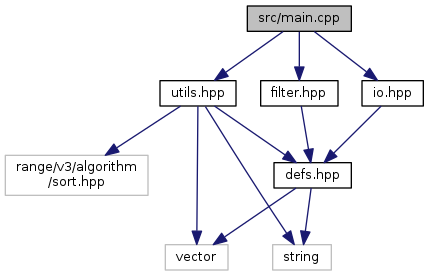
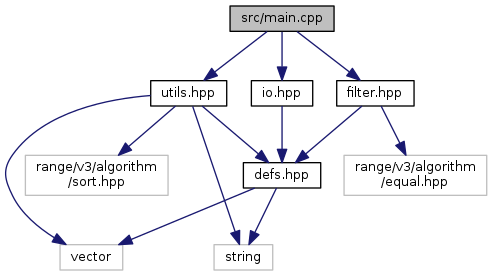
Deploy John-Jasper-Doe/Lab9 to github.com/John-Jasper-Doe/Lab9.git:gh-pages

diff --git a/filter_8hpp_source.html b/filter_8hpp_source.html
@@ -87,13 +87,11 @@ var searchBox = new SearchBox("searchBox", "search",false,'Search');
 <div class="title">filter.hpp</div>  </div>
 </div><!--header-->
 <div class="contents">
-<a href="filter_8hpp.html">Go to the documentation of this file.</a><div class="fragment"><div class="line"><a name="l00001"></a><span class="lineno">    1</span>&#160;</div><div class="line"><a name="l00010"></a><span class="lineno">   10</span>&#160;<span class="preprocessor">#ifndef FILTER_HPP_</span></div><div class="line"><a name="l00011"></a><span class="lineno">   11</span>&#160;<span class="preprocessor">#define FILTER_HPP_</span></div><div class="line"><a name="l00012"></a><span class="lineno">   12</span>&#160;</div><div class="line"><a name="l00013"></a><span class="lineno">   13</span>&#160;</div><div class="line"><a name="l00014"></a><span class="lineno">   14</span>&#160;<span class="preprocessor">#include &quot;<a class="code" href="defs_8hpp.html">defs.hpp</a>&quot;</span></div><div class="line"><a name="l00015"></a><span class="lineno">   15</span>&#160;</div><div class="line"><a name="l00016"></a><span class="lineno">   16</span>&#160;</div><div class="line"><a name="l00017"></a><span class="lineno">   17</span>&#160;<span class="comment">/* ------------------------------------------------------------------------- */</span></div><div class="line"><a name="l00024"></a><span class="lineno">   24</span>&#160;<span class="keywordtype">bool</span> <a class="code" href="filter_8hpp.html#afee0ac1c709dca8c9d101391fc50fcbb">helper_filter_any</a>(<span class="keyword">const</span> <a class="code" href="defs_8hpp.html#aeb46d39787a5fb589690276b2f0743f4">ipaddr_t</a> &amp;addr, uint32_t val);</div><div class="line"><a name="l00025"></a><span class="lineno">   25</span>&#160;</div><div class="line"><a name="l00032"></a><span class="lineno">   32</span>&#160;<span class="keywordtype">bool</span> <a class="code" href="filter_8hpp.html#a5664790c14b707e2c2feb6f9246c5185">helper_filter</a>(<span class="keyword">const</span> <a class="code" href="defs_8hpp.html#aeb46d39787a5fb589690276b2f0743f4">ipaddr_t</a> &amp;addr, <span class="keyword">const</span> <a class="code" href="defs_8hpp.html#aeb46d39787a5fb589690276b2f0743f4">ipaddr_t</a> &amp;tmp_addr);</div><div class="line"><a name="l00033"></a><span class="lineno">   33</span>&#160;</div><div class="line"><a name="l00040"></a><span class="lineno">   40</span>&#160;<a class="code" href="defs_8hpp.html#affc574f759e844bb7b11a0d01ceecc53">ip_pool_t</a> <a class="code" href="filter_8hpp.html#a6c34ea40f4a5b3087f47838761dd4512">filter_any</a>(<span class="keyword">const</span> <a class="code" href="defs_8hpp.html#affc574f759e844bb7b11a0d01ceecc53">ip_pool_t</a> &amp;pool, uint32_t val);</div><div class="line"><a name="l00041"></a><span class="lineno">   41</span>&#160;</div><div class="line"><a name="l00042"></a><span class="lineno">   42</span>&#160;</div><div class="line"><a name="l00043"></a><span class="lineno">   43</span>&#160;<span class="comment">/* ------------------------------------------------------------------------- */</span></div><div class="line"><a name="l00050"></a><span class="lineno">   50</span>&#160;<span class="keyword">template</span> &lt;<span class="keyword">typename</span>... Args&gt;</div><div class="line"><a name="l00051"></a><span class="lineno"><a class="line" href="filter_8hpp.html#a77f16b8de8a17e8eba9a7e213f1dddee">   51</a></span>&#160;<a class="code" href="defs_8hpp.html#affc574f759e844bb7b11a0d01ceecc53">ip_pool_t</a> <a class="code" href="filter_8hpp.html#a77f16b8de8a17e8eba9a7e213f1dddee">filter</a>(<span class="keyword">const</span> <a class="code" href="defs_8hpp.html#affc574f759e844bb7b11a0d01ceecc53">ip_pool_t</a> &amp;pool, Args... args)</div><div class="line"><a name="l00052"></a><span class="lineno">   52</span>&#160;{</div><div class="line"><a name="l00053"></a><span class="lineno">   53</span>&#160;  static_assert(<span class="keyword">sizeof</span>...(Args) &lt;= 4,</div><div class="line"><a name="l00054"></a><span class="lineno">   54</span>&#160;                <span class="stringliteral">&quot;filter gets 4 parameters max + ip_pool&quot;</span>);</div><div class="line"><a name="l00055"></a><span class="lineno">   55</span>&#160;</div><div class="line"><a name="l00056"></a><span class="lineno">   56</span>&#160;  <a class="code" href="defs_8hpp.html#affc574f759e844bb7b11a0d01ceecc53">ip_pool_t</a> result;</div><div class="line"><a name="l00057"></a><span class="lineno">   57</span>&#160;  <a class="code" href="defs_8hpp.html#aeb46d39787a5fb589690276b2f0743f4">ipaddr_t</a> tmp_array{args...};</div><div class="line"><a name="l00058"></a><span class="lineno">   58</span>&#160;</div><div class="line"><a name="l00059"></a><span class="lineno">   59</span>&#160;  <span class="keywordflow">for</span> (<span class="keyword">const</span> <a class="code" href="defs_8hpp.html#aeb46d39787a5fb589690276b2f0743f4">ipaddr_t</a> &amp;ip : pool) {</div><div class="line"><a name="l00060"></a><span class="lineno">   60</span>&#160;    <span class="keywordflow">if</span> (<a class="code" href="filter_8hpp.html#a5664790c14b707e2c2feb6f9246c5185">helper_filter</a>(ip, tmp_array))</div><div class="line"><a name="l00061"></a><span class="lineno">   61</span>&#160;      result.push_back(ip);</div><div class="line"><a name="l00062"></a><span class="lineno">   62</span>&#160;  }</div><div class="line"><a name="l00063"></a><span class="lineno">   63</span>&#160;  <span class="keywordflow">return</span> result;</div><div class="line"><a name="l00064"></a><span class="lineno">   64</span>&#160;}</div><div class="line"><a name="l00065"></a><span class="lineno">   65</span>&#160;</div><div class="line"><a name="l00066"></a><span class="lineno">   66</span>&#160;</div><div class="line"><a name="l00067"></a><span class="lineno">   67</span>&#160;<span class="preprocessor">#endif </span><span class="comment">/* FILTER_HPP_ */</span><span class="preprocessor"></span></div><div class="ttc" id="filter_8hpp_html_a77f16b8de8a17e8eba9a7e213f1dddee"><div class="ttname"><a href="filter_8hpp.html#a77f16b8de8a17e8eba9a7e213f1dddee">filter</a></div><div class="ttdeci">ip_pool_t filter(const ip_pool_t &amp;pool, Args...args)</div><div class="ttdoc">filter </div><div class="ttdef"><b>Definition:</b> filter.hpp:51</div></div>
+<a href="filter_8hpp.html">Go to the documentation of this file.</a><div class="fragment"><div class="line"><a name="l00001"></a><span class="lineno">    1</span>&#160;</div><div class="line"><a name="l00010"></a><span class="lineno">   10</span>&#160;<span class="preprocessor">#ifndef FILTER_HPP_</span></div><div class="line"><a name="l00011"></a><span class="lineno">   11</span>&#160;<span class="preprocessor">#define FILTER_HPP_</span></div><div class="line"><a name="l00012"></a><span class="lineno">   12</span>&#160;</div><div class="line"><a name="l00013"></a><span class="lineno">   13</span>&#160;</div><div class="line"><a name="l00014"></a><span class="lineno">   14</span>&#160;<span class="preprocessor">#include &quot;<a class="code" href="defs_8hpp.html">defs.hpp</a>&quot;</span></div><div class="line"><a name="l00015"></a><span class="lineno">   15</span>&#160;<span class="preprocessor">#include &lt;range/v3/algorithm/equal.hpp&gt;</span></div><div class="line"><a name="l00016"></a><span class="lineno">   16</span>&#160;</div><div class="line"><a name="l00017"></a><span class="lineno">   17</span>&#160;</div><div class="line"><a name="l00018"></a><span class="lineno">   18</span>&#160;<span class="comment">/* ------------------------------------------------------------------------- */</span></div><div class="line"><a name="l00025"></a><span class="lineno">   25</span>&#160;<a class="code" href="defs_8hpp.html#affc574f759e844bb7b11a0d01ceecc53">ip_pool_t</a> <a class="code" href="filter_8hpp.html#a6c34ea40f4a5b3087f47838761dd4512">filter_any</a>(<span class="keyword">const</span> <a class="code" href="defs_8hpp.html#affc574f759e844bb7b11a0d01ceecc53">ip_pool_t</a> &amp;pool, uint32_t val);</div><div class="line"><a name="l00026"></a><span class="lineno">   26</span>&#160;</div><div class="line"><a name="l00027"></a><span class="lineno">   27</span>&#160;</div><div class="line"><a name="l00028"></a><span class="lineno">   28</span>&#160;<span class="comment">/* ------------------------------------------------------------------------- */</span></div><div class="line"><a name="l00035"></a><span class="lineno">   35</span>&#160;<span class="keyword">template</span> &lt;<span class="keyword">typename</span>... Args&gt;</div><div class="line"><a name="l00036"></a><span class="lineno"><a class="line" href="filter_8hpp.html#a77f16b8de8a17e8eba9a7e213f1dddee">   36</a></span>&#160;<a class="code" href="defs_8hpp.html#affc574f759e844bb7b11a0d01ceecc53">ip_pool_t</a> <a class="code" href="filter_8hpp.html#a77f16b8de8a17e8eba9a7e213f1dddee">filter</a>(<span class="keyword">const</span> <a class="code" href="defs_8hpp.html#affc574f759e844bb7b11a0d01ceecc53">ip_pool_t</a> &amp;pool, Args... args)</div><div class="line"><a name="l00037"></a><span class="lineno">   37</span>&#160;{</div><div class="line"><a name="l00038"></a><span class="lineno">   38</span>&#160;  static_assert(<span class="keyword">sizeof</span>...(Args) &lt;= 4, <span class="stringliteral">&quot;filter gets 4 parameters max + ip_pool&quot;</span>);</div><div class="line"><a name="l00039"></a><span class="lineno">   39</span>&#160;</div><div class="line"><a name="l00040"></a><span class="lineno">   40</span>&#160;  <a class="code" href="defs_8hpp.html#affc574f759e844bb7b11a0d01ceecc53">ip_pool_t</a> result;</div><div class="line"><a name="l00041"></a><span class="lineno">   41</span>&#160;  <a class="code" href="defs_8hpp.html#aeb46d39787a5fb589690276b2f0743f4">ipaddr_t</a> tmp_array{args...};</div><div class="line"><a name="l00042"></a><span class="lineno">   42</span>&#160;</div><div class="line"><a name="l00043"></a><span class="lineno">   43</span>&#160;  <span class="keywordflow">for</span> (<span class="keyword">const</span> <a class="code" href="defs_8hpp.html#aeb46d39787a5fb589690276b2f0743f4">ipaddr_t</a> &amp;ip : pool) {</div><div class="line"><a name="l00044"></a><span class="lineno">   44</span>&#160;    <span class="keywordflow">if</span> (ranges::equal(tmp_array.begin(), tmp_array.end(), ip.begin()))</div><div class="line"><a name="l00045"></a><span class="lineno">   45</span>&#160;      result.push_back(ip);</div><div class="line"><a name="l00046"></a><span class="lineno">   46</span>&#160;  }</div><div class="line"><a name="l00047"></a><span class="lineno">   47</span>&#160;  <span class="keywordflow">return</span> result;</div><div class="line"><a name="l00048"></a><span class="lineno">   48</span>&#160;}</div><div class="line"><a name="l00049"></a><span class="lineno">   49</span>&#160;</div><div class="line"><a name="l00050"></a><span class="lineno">   50</span>&#160;</div><div class="line"><a name="l00051"></a><span class="lineno">   51</span>&#160;<span class="preprocessor">#endif </span><span class="comment">/* FILTER_HPP_ */</span><span class="preprocessor"></span></div><div class="ttc" id="filter_8hpp_html_a77f16b8de8a17e8eba9a7e213f1dddee"><div class="ttname"><a href="filter_8hpp.html#a77f16b8de8a17e8eba9a7e213f1dddee">filter</a></div><div class="ttdeci">ip_pool_t filter(const ip_pool_t &amp;pool, Args...args)</div><div class="ttdoc">filter </div><div class="ttdef"><b>Definition:</b> filter.hpp:36</div></div>
 <div class="ttc" id="defs_8hpp_html_aeb46d39787a5fb589690276b2f0743f4"><div class="ttname"><a href="defs_8hpp.html#aeb46d39787a5fb589690276b2f0743f4">ipaddr_t</a></div><div class="ttdeci">std::vector&lt; uint32_t &gt; ipaddr_t</div><div class="ttdef"><b>Definition:</b> defs.hpp:24</div></div>
-<div class="ttc" id="filter_8hpp_html_afee0ac1c709dca8c9d101391fc50fcbb"><div class="ttname"><a href="filter_8hpp.html#afee0ac1c709dca8c9d101391fc50fcbb">helper_filter_any</a></div><div class="ttdeci">bool helper_filter_any(const ipaddr_t &amp;addr, uint32_t val)</div><div class="ttdoc">helper_filter_any </div><div class="ttdef"><b>Definition:</b> filter.cpp:17</div></div>
 <div class="ttc" id="defs_8hpp_html"><div class="ttname"><a href="defs_8hpp.html">defs.hpp</a></div><div class="ttdoc">Definition on this project. </div></div>
 <div class="ttc" id="defs_8hpp_html_affc574f759e844bb7b11a0d01ceecc53"><div class="ttname"><a href="defs_8hpp.html#affc574f759e844bb7b11a0d01ceecc53">ip_pool_t</a></div><div class="ttdeci">std::vector&lt; ipaddr_t &gt; ip_pool_t</div><div class="ttdef"><b>Definition:</b> defs.hpp:27</div></div>
-<div class="ttc" id="filter_8hpp_html_a6c34ea40f4a5b3087f47838761dd4512"><div class="ttname"><a href="filter_8hpp.html#a6c34ea40f4a5b3087f47838761dd4512">filter_any</a></div><div class="ttdeci">ip_pool_t filter_any(const ip_pool_t &amp;pool, uint32_t val)</div><div class="ttdoc">filter_any </div><div class="ttdef"><b>Definition:</b> filter.cpp:39</div></div>
-<div class="ttc" id="filter_8hpp_html_a5664790c14b707e2c2feb6f9246c5185"><div class="ttname"><a href="filter_8hpp.html#a5664790c14b707e2c2feb6f9246c5185">helper_filter</a></div><div class="ttdeci">bool helper_filter(const ipaddr_t &amp;addr, const ipaddr_t &amp;tmp_addr)</div><div class="ttdoc">helper_filter </div><div class="ttdef"><b>Definition:</b> filter.cpp:23</div></div>
+<div class="ttc" id="filter_8hpp_html_a6c34ea40f4a5b3087f47838761dd4512"><div class="ttname"><a href="filter_8hpp.html#a6c34ea40f4a5b3087f47838761dd4512">filter_any</a></div><div class="ttdeci">ip_pool_t filter_any(const ip_pool_t &amp;pool, uint32_t val)</div><div class="ttdoc">filter_any </div><div class="ttdef"><b>Definition:</b> filter.cpp:18</div></div>
 </div><!-- fragment --></div><!-- contents -->
 <!-- start footer part -->
 <hr class="footer"/><address class="footer"><small>

diff --git a/filter_8cpp.html b/filter_8cpp.html
@@ -93,14 +93,15 @@ var searchBox = new SearchBox("searchBox", "search",false,'Search');
 <p>The filter function.  
 <a href="#details">More...</a></p>
 <div class="textblock"><code>#include &quot;<a class="el" href="filter_8hpp_source.html">filter.hpp</a>&quot;</code><br />
-<code>#include &lt;range/v3/algorithm/find.hpp&gt;</code><br />
+<code>#include &lt;range/v3/algorithm/for_each.hpp&gt;</code><br />
+<code>#include &lt;range/v3/view/filter.hpp&gt;</code><br />
 </div><div class="textblock"><div class="dynheader">
 Include dependency graph for filter.cpp:</div>
 <div class="dyncontent">
 <div class="center"><img src="filter_8cpp__incl.png" border="0" usemap="#src_2filter_8cpp" alt=""/></div>
 <map name="src_2filter_8cpp" id="src_2filter_8cpp">
-<area shape="rect" id="node2" href="filter_8hpp.html" title="The filter function. " alt="" coords="39,87,116,114"/>
-<area shape="rect" id="node3" href="defs_8hpp.html" title="Definition on this project. " alt="" coords="39,169,116,196"/>
+<area shape="rect" id="node2" href="filter_8hpp.html" title="The filter function. " alt="" coords="105,87,183,114"/>
+<area shape="rect" id="node3" href="defs_8hpp.html" title="Definition on this project. " alt="" coords="39,177,116,203"/>
 </map>
 </div>
 </div><table class="memberdecls">
@@ -109,12 +110,6 @@ Functions</h2></td></tr>
 <tr class="memitem:a6c34ea40f4a5b3087f47838761dd4512"><td class="memItemLeft" align="right" valign="top"><a class="el" href="defs_8hpp.html#affc574f759e844bb7b11a0d01ceecc53">ip_pool_t</a>&#160;</td><td class="memItemRight" valign="bottom"><a class="el" href="filter_8cpp.html#a6c34ea40f4a5b3087f47838761dd4512">filter_any</a> (const <a class="el" href="defs_8hpp.html#affc574f759e844bb7b11a0d01ceecc53">ip_pool_t</a> &amp;pool, uint32_t val)</td></tr>
 <tr class="memdesc:a6c34ea40f4a5b3087f47838761dd4512"><td class="mdescLeft">&#160;</td><td class="mdescRight">filter_any  <a href="#a6c34ea40f4a5b3087f47838761dd4512">More...</a><br /></td></tr>
 <tr class="separator:a6c34ea40f4a5b3087f47838761dd4512"><td class="memSeparator" colspan="2">&#160;</td></tr>
-<tr class="memitem:a5664790c14b707e2c2feb6f9246c5185"><td class="memItemLeft" align="right" valign="top">bool&#160;</td><td class="memItemRight" valign="bottom"><a class="el" href="filter_8cpp.html#a5664790c14b707e2c2feb6f9246c5185">helper_filter</a> (const <a class="el" href="defs_8hpp.html#aeb46d39787a5fb589690276b2f0743f4">ipaddr_t</a> &amp;addr, const <a class="el" href="defs_8hpp.html#aeb46d39787a5fb589690276b2f0743f4">ipaddr_t</a> &amp;tmp_addr)</td></tr>
-<tr class="memdesc:a5664790c14b707e2c2feb6f9246c5185"><td class="mdescLeft">&#160;</td><td class="mdescRight">helper_filter  <a href="#a5664790c14b707e2c2feb6f9246c5185">More...</a><br /></td></tr>
-<tr class="separator:a5664790c14b707e2c2feb6f9246c5185"><td class="memSeparator" colspan="2">&#160;</td></tr>
-<tr class="memitem:afee0ac1c709dca8c9d101391fc50fcbb"><td class="memItemLeft" align="right" valign="top">bool&#160;</td><td class="memItemRight" valign="bottom"><a class="el" href="filter_8cpp.html#afee0ac1c709dca8c9d101391fc50fcbb">helper_filter_any</a> (const <a class="el" href="defs_8hpp.html#aeb46d39787a5fb589690276b2f0743f4">ipaddr_t</a> &amp;addr, uint32_t val)</td></tr>
-<tr class="memdesc:afee0ac1c709dca8c9d101391fc50fcbb"><td class="mdescLeft">&#160;</td><td class="mdescRight">helper_filter_any  <a href="#afee0ac1c709dca8c9d101391fc50fcbb">More...</a><br /></td></tr>
-<tr class="separator:afee0ac1c709dca8c9d101391fc50fcbb"><td class="memSeparator" colspan="2">&#160;</td></tr>
 </table>
 <a name="details" id="details"></a><h2 class="groupheader">Detailed Description</h2>
 <div class="textblock"><p>The filter function. </p>
@@ -154,78 +149,6 @@ Functions</h2></td></tr>
   </dd>
 </dl>
 <dl class="section return"><dt>Returns</dt><dd>IP address equal to value. </dd></dl>
-
-</div>
-</div>
-<a class="anchor" id="a5664790c14b707e2c2feb6f9246c5185"></a>
-<div class="memitem">
-<div class="memproto">
-      <table class="memname">
-        <tr>
-          <td class="memname">bool helper_filter </td>
-          <td>(</td>
-          <td class="paramtype">const <a class="el" href="defs_8hpp.html#aeb46d39787a5fb589690276b2f0743f4">ipaddr_t</a> &amp;&#160;</td>
-          <td class="paramname"><em>addr</em>, </td>
-        </tr>
-        <tr>
-          <td class="paramkey"></td>
-          <td></td>
-          <td class="paramtype">const <a class="el" href="defs_8hpp.html#aeb46d39787a5fb589690276b2f0743f4">ipaddr_t</a> &amp;&#160;</td>
-          <td class="paramname"><em>tmp_addr</em>&#160;</td>
-        </tr>
-        <tr>
-          <td></td>
-          <td>)</td>
-          <td></td><td></td>
-        </tr>
-      </table>
-</div><div class="memdoc">
-
-<p>helper_filter </p>
-<dl class="params"><dt>Parameters</dt><dd>
-  <table class="params">
-    <tr><td class="paramname">addr[in]</td><td>- IP-address. </td></tr>
-    <tr><td class="paramname">tmp_addr[in]</td><td>- value for comparison. </td></tr>
-  </table>
-  </dd>
-</dl>
-<dl class="section return"><dt>Returns</dt><dd>"true" - if the address you are looking for is "false" - otherwise. </dd></dl>
-
-</div>
-</div>
-<a class="anchor" id="afee0ac1c709dca8c9d101391fc50fcbb"></a>
-<div class="memitem">
-<div class="memproto">
-      <table class="memname">
-        <tr>
-          <td class="memname">bool helper_filter_any </td>
-          <td>(</td>
-          <td class="paramtype">const <a class="el" href="defs_8hpp.html#aeb46d39787a5fb589690276b2f0743f4">ipaddr_t</a> &amp;&#160;</td>
-          <td class="paramname"><em>addr</em>, </td>
-        </tr>
-        <tr>
-          <td class="paramkey"></td>
-          <td></td>
-          <td class="paramtype">uint32_t&#160;</td>
-          <td class="paramname"><em>val</em>&#160;</td>
-        </tr>
-        <tr>
-          <td></td>
-          <td>)</td>
-          <td></td><td></td>
-        </tr>
-      </table>
-</div><div class="memdoc">
-
-<p>helper_filter_any </p>
-<dl class="params"><dt>Parameters</dt><dd>
-  <table class="params">
-    <tr><td class="paramname">addr[in]</td><td>- IP-address. </td></tr>
-    <tr><td class="paramname">val[in]</td><td>- value for comparison. </td></tr>
-  </table>
-  </dd>
-</dl>
-<dl class="section return"><dt>Returns</dt><dd>"true" - if the address you are looking for is "false" - otherwise. </dd></dl>
 
 </div>
 </div>

diff --git a/filter_8hpp.html b/filter_8hpp.html
@@ -93,12 +93,13 @@ var searchBox = new SearchBox("searchBox", "search",false,'Search');
 <p>The filter function.  
 <a href="#details">More...</a></p>
 <div class="textblock"><code>#include &quot;<a class="el" href="defs_8hpp_source.html">defs.hpp</a>&quot;</code><br />
+<code>#include &lt;range/v3/algorithm/equal.hpp&gt;</code><br />
 </div><div class="textblock"><div class="dynheader">
 Include dependency graph for filter.hpp:</div>
 <div class="dyncontent">
 <div class="center"><img src="filter_8hpp__incl.png" border="0" usemap="#src_2filter_8hpp" alt=""/></div>
 <map name="src_2filter_8hpp" id="src_2filter_8hpp">
-<area shape="rect" id="node2" href="defs_8hpp.html" title="Definition on this project. " alt="" coords="39,80,116,107"/>
+<area shape="rect" id="node2" href="defs_8hpp.html" title="Definition on this project. " alt="" coords="39,87,116,114"/>
 </map>
 </div>
 </div><div class="textblock"><div class="dynheader">
@@ -122,12 +123,6 @@ Functions</h2></td></tr>
 <tr class="memitem:a6c34ea40f4a5b3087f47838761dd4512"><td class="memItemLeft" align="right" valign="top"><a class="el" href="defs_8hpp.html#affc574f759e844bb7b11a0d01ceecc53">ip_pool_t</a>&#160;</td><td class="memItemRight" valign="bottom"><a class="el" href="filter_8hpp.html#a6c34ea40f4a5b3087f47838761dd4512">filter_any</a> (const <a class="el" href="defs_8hpp.html#affc574f759e844bb7b11a0d01ceecc53">ip_pool_t</a> &amp;pool, uint32_t val)</td></tr>
 <tr class="memdesc:a6c34ea40f4a5b3087f47838761dd4512"><td class="mdescLeft">&#160;</td><td class="mdescRight">filter_any  <a href="#a6c34ea40f4a5b3087f47838761dd4512">More...</a><br /></td></tr>
 <tr class="separator:a6c34ea40f4a5b3087f47838761dd4512"><td class="memSeparator" colspan="2">&#160;</td></tr>
-<tr class="memitem:a5664790c14b707e2c2feb6f9246c5185"><td class="memItemLeft" align="right" valign="top">bool&#160;</td><td class="memItemRight" valign="bottom"><a class="el" href="filter_8hpp.html#a5664790c14b707e2c2feb6f9246c5185">helper_filter</a> (const <a class="el" href="defs_8hpp.html#aeb46d39787a5fb589690276b2f0743f4">ipaddr_t</a> &amp;addr, const <a class="el" href="defs_8hpp.html#aeb46d39787a5fb589690276b2f0743f4">ipaddr_t</a> &amp;tmp_addr)</td></tr>
-<tr class="memdesc:a5664790c14b707e2c2feb6f9246c5185"><td class="mdescLeft">&#160;</td><td class="mdescRight">helper_filter  <a href="#a5664790c14b707e2c2feb6f9246c5185">More...</a><br /></td></tr>
-<tr class="separator:a5664790c14b707e2c2feb6f9246c5185"><td class="memSeparator" colspan="2">&#160;</td></tr>
-<tr class="memitem:afee0ac1c709dca8c9d101391fc50fcbb"><td class="memItemLeft" align="right" valign="top">bool&#160;</td><td class="memItemRight" valign="bottom"><a class="el" href="filter_8hpp.html#afee0ac1c709dca8c9d101391fc50fcbb">helper_filter_any</a> (const <a class="el" href="defs_8hpp.html#aeb46d39787a5fb589690276b2f0743f4">ipaddr_t</a> &amp;addr, uint32_t val)</td></tr>
-<tr class="memdesc:afee0ac1c709dca8c9d101391fc50fcbb"><td class="mdescLeft">&#160;</td><td class="mdescRight">helper_filter_any  <a href="#afee0ac1c709dca8c9d101391fc50fcbb">More...</a><br /></td></tr>
-<tr class="separator:afee0ac1c709dca8c9d101391fc50fcbb"><td class="memSeparator" colspan="2">&#160;</td></tr>
 </table>
 <a name="details" id="details"></a><h2 class="groupheader">Detailed Description</h2>
 <div class="textblock"><p>The filter function. </p>
@@ -205,78 +200,6 @@ template&lt;typename... Args&gt; </div>
   </dd>
 </dl>
 <dl class="section return"><dt>Returns</dt><dd>IP address equal to value. </dd></dl>
-
-</div>
-</div>
-<a class="anchor" id="a5664790c14b707e2c2feb6f9246c5185"></a>
-<div class="memitem">
-<div class="memproto">
-      <table class="memname">
-        <tr>
-          <td class="memname">bool helper_filter </td>
-          <td>(</td>
-          <td class="paramtype">const <a class="el" href="defs_8hpp.html#aeb46d39787a5fb589690276b2f0743f4">ipaddr_t</a> &amp;&#160;</td>
-          <td class="paramname"><em>addr</em>, </td>
-        </tr>
-        <tr>
-          <td class="paramkey"></td>
-          <td></td>
-          <td class="paramtype">const <a class="el" href="defs_8hpp.html#aeb46d39787a5fb589690276b2f0743f4">ipaddr_t</a> &amp;&#160;</td>
-          <td class="paramname"><em>tmp_addr</em>&#160;</td>
-        </tr>
-        <tr>
-          <td></td>
-          <td>)</td>
-          <td></td><td></td>
-        </tr>
-      </table>
-</div><div class="memdoc">
-
-<p>helper_filter </p>
-<dl class="params"><dt>Parameters</dt><dd>
-  <table class="params">
-    <tr><td class="paramname">addr[in]</td><td>- IP-address. </td></tr>
-    <tr><td class="paramname">tmp_addr[in]</td><td>- value for comparison. </td></tr>
-  </table>
-  </dd>
-</dl>
-<dl class="section return"><dt>Returns</dt><dd>"true" - if the address you are looking for is "false" - otherwise. </dd></dl>
-
-</div>
-</div>
-<a class="anchor" id="afee0ac1c709dca8c9d101391fc50fcbb"></a>
-<div class="memitem">
-<div class="memproto">
-      <table class="memname">
-        <tr>
-          <td class="memname">bool helper_filter_any </td>
-          <td>(</td>
-          <td class="paramtype">const <a class="el" href="defs_8hpp.html#aeb46d39787a5fb589690276b2f0743f4">ipaddr_t</a> &amp;&#160;</td>
-          <td class="paramname"><em>addr</em>, </td>
-        </tr>
-        <tr>
-          <td class="paramkey"></td>
-          <td></td>
-          <td class="paramtype">uint32_t&#160;</td>
-          <td class="paramname"><em>val</em>&#160;</td>
-        </tr>
-        <tr>
-          <td></td>
-          <td>)</td>
-          <td></td><td></td>
-        </tr>
-      </table>
-</div><div class="memdoc">
-
-<p>helper_filter_any </p>
-<dl class="params"><dt>Parameters</dt><dd>
-  <table class="params">
-    <tr><td class="paramname">addr[in]</td><td>- IP-address. </td></tr>
-    <tr><td class="paramname">val[in]</td><td>- value for comparison. </td></tr>
-  </table>
-  </dd>
-</dl>
-<dl class="section return"><dt>Returns</dt><dd>"true" - if the address you are looking for is "false" - otherwise. </dd></dl>
 
 </div>
 </div>

diff --git a/globals.html b/globals.html
@@ -91,20 +91,12 @@ var searchBox = new SearchBox("searchBox", "search",false,'Search');
 : <a class="el" href="filter_8hpp.html#a77f16b8de8a17e8eba9a7e213f1dddee">filter.hpp</a>
 </li>
 <li>filter_any()
-: <a class="el" href="filter_8cpp.html#a6c34ea40f4a5b3087f47838761dd4512">filter.cpp</a>
-, <a class="el" href="filter_8hpp.html#a6c34ea40f4a5b3087f47838761dd4512">filter.hpp</a>
+: <a class="el" href="filter_8hpp.html#a6c34ea40f4a5b3087f47838761dd4512">filter.hpp</a>
+, <a class="el" href="filter_8cpp.html#a6c34ea40f4a5b3087f47838761dd4512">filter.cpp</a>
 </li>
 <li>get_from_stream()
 : <a class="el" href="io_8cpp.html#aff065045bb5865a38194400ef0c61860">io.cpp</a>
 , <a class="el" href="io_8hpp.html#aff065045bb5865a38194400ef0c61860">io.hpp</a>
-</li>
-<li>helper_filter()
-: <a class="el" href="filter_8cpp.html#a5664790c14b707e2c2feb6f9246c5185">filter.cpp</a>
-, <a class="el" href="filter_8hpp.html#a5664790c14b707e2c2feb6f9246c5185">filter.hpp</a>
-</li>
-<li>helper_filter_any()
-: <a class="el" href="filter_8cpp.html#afee0ac1c709dca8c9d101391fc50fcbb">filter.cpp</a>
-, <a class="el" href="filter_8hpp.html#afee0ac1c709dca8c9d101391fc50fcbb">filter.hpp</a>
 </li>
 <li>ip_liststr_t
 : <a class="el" href="defs_8hpp.html#abb419b8077adb81fdf8c75e1cb781e14">defs.hpp</a>
@@ -113,8 +105,8 @@ var searchBox = new SearchBox("searchBox", "search",false,'Search');
 : <a class="el" href="defs_8hpp.html#affc574f759e844bb7b11a0d01ceecc53">defs.hpp</a>
 </li>
 <li>ip_print()
-: <a class="el" href="io_8cpp.html#af9c2a63075e9dcfbfe52fdc38cc6c10d">io.cpp</a>
-, <a class="el" href="io_8hpp.html#af9c2a63075e9dcfbfe52fdc38cc6c10d">io.hpp</a>
+: <a class="el" href="io_8hpp.html#af9c2a63075e9dcfbfe52fdc38cc6c10d">io.hpp</a>
+, <a class="el" href="io_8cpp.html#af9c2a63075e9dcfbfe52fdc38cc6c10d">io.cpp</a>
 </li>
 <li>ipaddr_str_t
 : <a class="el" href="defs_8hpp.html#aa917d08f572950bb321fc5ce3b323717">defs.hpp</a>
@@ -129,8 +121,8 @@ var searchBox = new SearchBox("searchBox", "search",false,'Search');
 : <a class="el" href="utils_8hpp.html#af7f242c1bee827eb9b994d9430641343">utils.hpp</a>
 </li>
 <li>split()
-: <a class="el" href="utils_8cpp.html#a76ccaab16daacd4d25f5b5b1e2827ec7">utils.cpp</a>
-, <a class="el" href="utils_8hpp.html#a76ccaab16daacd4d25f5b5b1e2827ec7">utils.hpp</a>
+: <a class="el" href="utils_8hpp.html#a76ccaab16daacd4d25f5b5b1e2827ec7">utils.hpp</a>
+, <a class="el" href="utils_8cpp.html#a76ccaab16daacd4d25f5b5b1e2827ec7">utils.cpp</a>
 </li>
 </ul>
 </div><!-- contents -->

diff --git a/globals_func.html b/globals_func.html
@@ -91,20 +91,12 @@ var searchBox = new SearchBox("searchBox", "search",false,'Search');
 : <a class="el" href="filter_8hpp.html#a77f16b8de8a17e8eba9a7e213f1dddee">filter.hpp</a>
 </li>
 <li>filter_any()
-: <a class="el" href="filter_8cpp.html#a6c34ea40f4a5b3087f47838761dd4512">filter.cpp</a>
-, <a class="el" href="filter_8hpp.html#a6c34ea40f4a5b3087f47838761dd4512">filter.hpp</a>
+: <a class="el" href="filter_8hpp.html#a6c34ea40f4a5b3087f47838761dd4512">filter.hpp</a>
+, <a class="el" href="filter_8cpp.html#a6c34ea40f4a5b3087f47838761dd4512">filter.cpp</a>
 </li>
 <li>get_from_stream()
 : <a class="el" href="io_8cpp.html#aff065045bb5865a38194400ef0c61860">io.cpp</a>
 , <a class="el" href="io_8hpp.html#aff065045bb5865a38194400ef0c61860">io.hpp</a>
-</li>
-<li>helper_filter()
-: <a class="el" href="filter_8cpp.html#a5664790c14b707e2c2feb6f9246c5185">filter.cpp</a>
-, <a class="el" href="filter_8hpp.html#a5664790c14b707e2c2feb6f9246c5185">filter.hpp</a>
-</li>
-<li>helper_filter_any()
-: <a class="el" href="filter_8cpp.html#afee0ac1c709dca8c9d101391fc50fcbb">filter.cpp</a>
-, <a class="el" href="filter_8hpp.html#afee0ac1c709dca8c9d101391fc50fcbb">filter.hpp</a>
 </li>
 <li>ip_print()
 : <a class="el" href="io_8cpp.html#af9c2a63075e9dcfbfe52fdc38cc6c10d">io.cpp</a>
@@ -117,8 +109,8 @@ var searchBox = new SearchBox("searchBox", "search",false,'Search');
 : <a class="el" href="utils_8hpp.html#af7f242c1bee827eb9b994d9430641343">utils.hpp</a>
 </li>
 <li>split()
-: <a class="el" href="utils_8cpp.html#a76ccaab16daacd4d25f5b5b1e2827ec7">utils.cpp</a>
-, <a class="el" href="utils_8hpp.html#a76ccaab16daacd4d25f5b5b1e2827ec7">utils.hpp</a>
+: <a class="el" href="utils_8hpp.html#a76ccaab16daacd4d25f5b5b1e2827ec7">utils.hpp</a>
+, <a class="el" href="utils_8cpp.html#a76ccaab16daacd4d25f5b5b1e2827ec7">utils.cpp</a>
 </li>
 </ul>
 </div><!-- contents -->

diff --git a/search/all_3.js b/search/all_3.js
@@ -1,5 +1,10 @@
 var searchData=
 [
-  ['helper_5ffilter',['helper_filter',['../filter_8cpp.html#a5664790c14b707e2c2feb6f9246c5185',1,'helper_filter(const ipaddr_t &amp;addr, const ipaddr_t &amp;tmp_addr):&#160;filter.cpp'],['../filter_8hpp.html#a5664790c14b707e2c2feb6f9246c5185',1,'helper_filter(const ipaddr_t &amp;addr, const ipaddr_t &amp;tmp_addr):&#160;filter.cpp']]],
-  ['helper_5ffilter_5fany',['helper_filter_any',['../filter_8cpp.html#afee0ac1c709dca8c9d101391fc50fcbb',1,'helper_filter_any(const ipaddr_t &amp;addr, uint32_t val):&#160;filter.cpp'],['../filter_8hpp.html#afee0ac1c709dca8c9d101391fc50fcbb',1,'helper_filter_any(const ipaddr_t &amp;addr, uint32_t val):&#160;filter.cpp']]]
+  ['io_2ecpp',['io.cpp',['../io_8cpp.html',1,'']]],
+  ['io_2ehpp',['io.hpp',['../io_8hpp.html',1,'']]],
+  ['ip_5fliststr_5ft',['ip_liststr_t',['../defs_8hpp.html#abb419b8077adb81fdf8c75e1cb781e14',1,'defs.hpp']]],
+  ['ip_5fpool_5ft',['ip_pool_t',['../defs_8hpp.html#affc574f759e844bb7b11a0d01ceecc53',1,'defs.hpp']]],
+  ['ip_5fprint',['ip_print',['../io_8cpp.html#af9c2a63075e9dcfbfe52fdc38cc6c10d',1,'ip_print(ip_pool_t &amp;data):&#160;io.cpp'],['../io_8hpp.html#af9c2a63075e9dcfbfe52fdc38cc6c10d',1,'ip_print(ip_pool_t &amp;data):&#160;io.cpp']]],
+  ['ipaddr_5fstr_5ft',['ipaddr_str_t',['../defs_8hpp.html#aa917d08f572950bb321fc5ce3b323717',1,'defs.hpp']]],
+  ['ipaddr_5ft',['ipaddr_t',['../defs_8hpp.html#aeb46d39787a5fb589690276b2f0743f4',1,'defs.hpp']]]
 ];

diff --git a/main_8cpp.html b/main_8cpp.html
@@ -100,10 +100,10 @@ Include dependency graph for main.cpp:</div>
 <div class="dyncontent">
 <div class="center"><img src="main_8cpp__incl.png" border="0" usemap="#src_2main_8cpp" alt=""/></div>
 <map name="src_2main_8cpp" id="src_2main_8cpp">
-<area shape="rect" id="node2" href="io_8hpp.html" title="The I/O function. " alt="" coords="362,80,423,107"/>
-<area shape="rect" id="node6" href="filter_8hpp.html" title="The filter function. " alt="" coords="261,80,338,107"/>
-<area shape="rect" id="node7" href="utils_8hpp.html" title="Utilities to help. " alt="" coords="160,80,236,107"/>
-<area shape="rect" id="node3" href="defs_8hpp.html" title="Definition on this project. " alt="" coords="274,162,351,189"/>
+<area shape="rect" id="node2" href="io_8hpp.html" title="The I/O function. " alt="" coords="251,80,313,107"/>
+<area shape="rect" id="node6" href="filter_8hpp.html" title="The filter function. " alt="" coords="337,80,414,107"/>
+<area shape="rect" id="node8" href="utils_8hpp.html" title="Utilities to help. " alt="" coords="151,80,227,107"/>
+<area shape="rect" id="node3" href="defs_8hpp.html" title="Definition on this project. " alt="" coords="243,162,321,189"/>
 </map>
 </div>
 </div><table class="memberdecls">

diff --git a/search/all_4.js b/search/all_4.js
@@ -1,10 +1,5 @@
 var searchData=
 [
-  ['io_2ecpp',['io.cpp',['../io_8cpp.html',1,'']]],
-  ['io_2ehpp',['io.hpp',['../io_8hpp.html',1,'']]],
-  ['ip_5fliststr_5ft',['ip_liststr_t',['../defs_8hpp.html#abb419b8077adb81fdf8c75e1cb781e14',1,'defs.hpp']]],
-  ['ip_5fpool_5ft',['ip_pool_t',['../defs_8hpp.html#affc574f759e844bb7b11a0d01ceecc53',1,'defs.hpp']]],
-  ['ip_5fprint',['ip_print',['../io_8cpp.html#af9c2a63075e9dcfbfe52fdc38cc6c10d',1,'ip_print(ip_pool_t &amp;data):&#160;io.cpp'],['../io_8hpp.html#af9c2a63075e9dcfbfe52fdc38cc6c10d',1,'ip_print(ip_pool_t &amp;data):&#160;io.cpp']]],
-  ['ipaddr_5fstr_5ft',['ipaddr_str_t',['../defs_8hpp.html#aa917d08f572950bb321fc5ce3b323717',1,'defs.hpp']]],
-  ['ipaddr_5ft',['ipaddr_t',['../defs_8hpp.html#aeb46d39787a5fb589690276b2f0743f4',1,'defs.hpp']]]
+  ['main',['main',['../main_8cpp.html#ae66f6b31b5ad750f1fe042a706a4e3d4',1,'main.cpp']]],
+  ['main_2ecpp',['main.cpp',['../main_8cpp.html',1,'']]]
 ];

diff --git a/search/functions_2.js b/search/functions_2.js
@@ -1,5 +1,4 @@
 var searchData=
 [
-  ['helper_5ffilter',['helper_filter',['../filter_8cpp.html#a5664790c14b707e2c2feb6f9246c5185',1,'helper_filter(const ipaddr_t &amp;addr, const ipaddr_t &amp;tmp_addr):&#160;filter.cpp'],['../filter_8hpp.html#a5664790c14b707e2c2feb6f9246c5185',1,'helper_filter(const ipaddr_t &amp;addr, const ipaddr_t &amp;tmp_addr):&#160;filter.cpp']]],
-  ['helper_5ffilter_5fany',['helper_filter_any',['../filter_8cpp.html#afee0ac1c709dca8c9d101391fc50fcbb',1,'helper_filter_any(const ipaddr_t &amp;addr, uint32_t val):&#160;filter.cpp'],['../filter_8hpp.html#afee0ac1c709dca8c9d101391fc50fcbb',1,'helper_filter_any(const ipaddr_t &amp;addr, uint32_t val):&#160;filter.cpp']]]
+  ['ip_5fprint',['ip_print',['../io_8cpp.html#af9c2a63075e9dcfbfe52fdc38cc6c10d',1,'ip_print(ip_pool_t &amp;data):&#160;io.cpp'],['../io_8hpp.html#af9c2a63075e9dcfbfe52fdc38cc6c10d',1,'ip_print(ip_pool_t &amp;data):&#160;io.cpp']]]
 ];

diff --git a/search/all_5.js b/search/all_5.js
@@ -1,5 +1,5 @@
 var searchData=
 [
-  ['main',['main',['../main_8cpp.html#ae66f6b31b5ad750f1fe042a706a4e3d4',1,'main.cpp']]],
-  ['main_2ecpp',['main.cpp',['../main_8cpp.html',1,'']]]
+  ['sort',['sort',['../utils_8hpp.html#af7f242c1bee827eb9b994d9430641343',1,'utils.hpp']]],
+  ['split',['split',['../utils_8cpp.html#a76ccaab16daacd4d25f5b5b1e2827ec7',1,'split(const std::string &amp;str, char div):&#160;utils.cpp'],['../utils_8hpp.html#a76ccaab16daacd4d25f5b5b1e2827ec7',1,'split(const std::string &amp;str, char div):&#160;utils.cpp']]]
 ];

diff --git a/search/all_6.js b/search/all_6.js
@@ -1,5 +1,5 @@
 var searchData=
 [
-  ['sort',['sort',['../utils_8hpp.html#af7f242c1bee827eb9b994d9430641343',1,'utils.hpp']]],
-  ['split',['split',['../utils_8cpp.html#a76ccaab16daacd4d25f5b5b1e2827ec7',1,'split(const std::string &amp;str, char div):&#160;utils.cpp'],['../utils_8hpp.html#a76ccaab16daacd4d25f5b5b1e2827ec7',1,'split(const std::string &amp;str, char div):&#160;utils.cpp']]]
+  ['utils_2ecpp',['utils.cpp',['../utils_8cpp.html',1,'']]],
+  ['utils_2ehpp',['utils.hpp',['../utils_8hpp.html',1,'']]]
 ];

diff --git a/search/functions_4.js b/search/functions_4.js
@@ -1,4 +1,5 @@
 var searchData=
 [
-  ['main',['main',['../main_8cpp.html#ae66f6b31b5ad750f1fe042a706a4e3d4',1,'main.cpp']]]
+  ['sort',['sort',['../utils_8hpp.html#af7f242c1bee827eb9b994d9430641343',1,'utils.hpp']]],
+  ['split',['split',['../utils_8cpp.html#a76ccaab16daacd4d25f5b5b1e2827ec7',1,'split(const std::string &amp;str, char div):&#160;utils.cpp'],['../utils_8hpp.html#a76ccaab16daacd4d25f5b5b1e2827ec7',1,'split(const std::string &amp;str, char div):&#160;utils.cpp']]]
 ];
